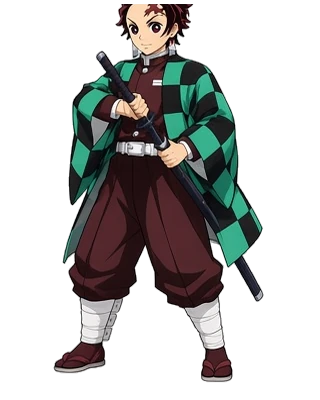
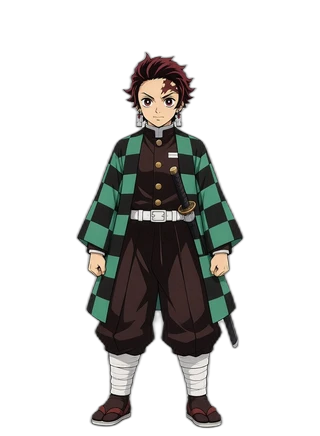
pages30: facing persist + Tanjiro nativeDir flip + idle head art
Keep last move facing when idle; fix Tanjiro walk/idle flip; refresh idle frames.

diff --git a/game.js b/game.js
@@ -70,7 +70,7 @@
   var charHover = -1;
   // pages23: spritesheet loader. Each kit is 1–3 webp atlases (~5 total) plus ~15
   // core images. fetch+blob decode; match load exclusive; 20s stall → retry UI.
-  var ASSET_V = "pages29";
+  var ASSET_V = "pages30";
   var ASSET_GROUPS = { core: [], obito: [], pain: [], tanjiro: [] };
   var assetErrors = [];
   var LOAD_CONCURRENCY = 8;
@@ -2651,12 +2651,8 @@
     }
     if (ix < 0) f.facing = -1;
     else if (ix > 0) f.facing = 1;
-    else {
-      // pages20: with no horizontal input, turn back toward the nearest foe
-      // (e.g. after Q's lunge carries Obito past the opponent).
-      var foeF = nearestEnemy(f);
-      if (foeF && foeF !== f && Math.abs(foeF.x - f.x) > 6) f.facing = foeF.x > f.x ? 1 : -1;
-    }
+    // pages30: keep last movement facing when idle (left stop stays left, right stays right).
+    // Skill casts still face the foe elsewhere; do not snap here.
     if (ix === 0 && iy === 0) {
       f.gait = "idle";
       return;
@@ -4066,12 +4062,13 @@
   // pages28: Tanjiro sheets were drawn facing different ways. Idle/walk/atk face LEFT;
   // dash/lunge sets mostly face RIGHT. Flip with a nativeDir so facing matches movement.
   function tanjiroNativeDir(set) {
-    if (!set) return -1;
-    if (set === tanjiro.idle || set === tanjiro.water.atk || set === tanjiro.fire.atk) return -1;
-    if (set === tanjiro.water.water2c || set === tanjiro.fire.water2c) return -1;
-    // pages29: 受击僵直 / 击飞帧原生朝右（被击向后=向左）
+    if (!set) return 1;
+    // pages30: idle/walk/atk art faces RIGHT (pages28 assumed left and inverted on screen).
+    if (set === tanjiro.idle || set === tanjiro.water.atk || set === tanjiro.fire.atk) return 1;
+    if (set === tanjiro.water.water2c || set === tanjiro.fire.water2c) return 1;
+    // hitstun/knockdown: native right
     if (set === tanjiro.hitstun || set === tanjiro.knock) return 1;
-    // 二型 / 四型 / 一型 / 大招：多数帧朝右
+    // 二型 / 四型 / 一型 / 大招
     return 1;
   }
   function drawTanjiroAt(x, groundY, facing, set, index, alpha, tilt, shakeAmp) {

diff --git a/index.html b/index.html
@@ -51,7 +51,7 @@
 (function(){var t0=Date.now(),el=document.getElementById("bootT");var iv=setInterval(function(){if(!document.getElementById("boot")){clearInterval(iv);return;}el.textContent=Math.round((Date.now()-t0)/1000)+"s";},500);
 window.addEventListener("error",function(e){var m=document.getElementById("bootMsg");if(m&&e&&e.target&&e.target.src)m.textContent="脚本加载失败，正在重试…";},true);})();
 </script>
-<script src="game.js?v=pages29" onerror="(function(s){var n=document.createElement('script');n.src='game.js?v=pages29&r='+Date.now();document.body.appendChild(n);})(this)"></script>
+<script src="game.js?v=pages30" onerror="(function(s){var n=document.createElement('script');n.src='game.js?v=pages30&r='+Date.now();document.body.appendChild(n);})(this)"></script>
 
 <script>
 (function(){var last=0;
